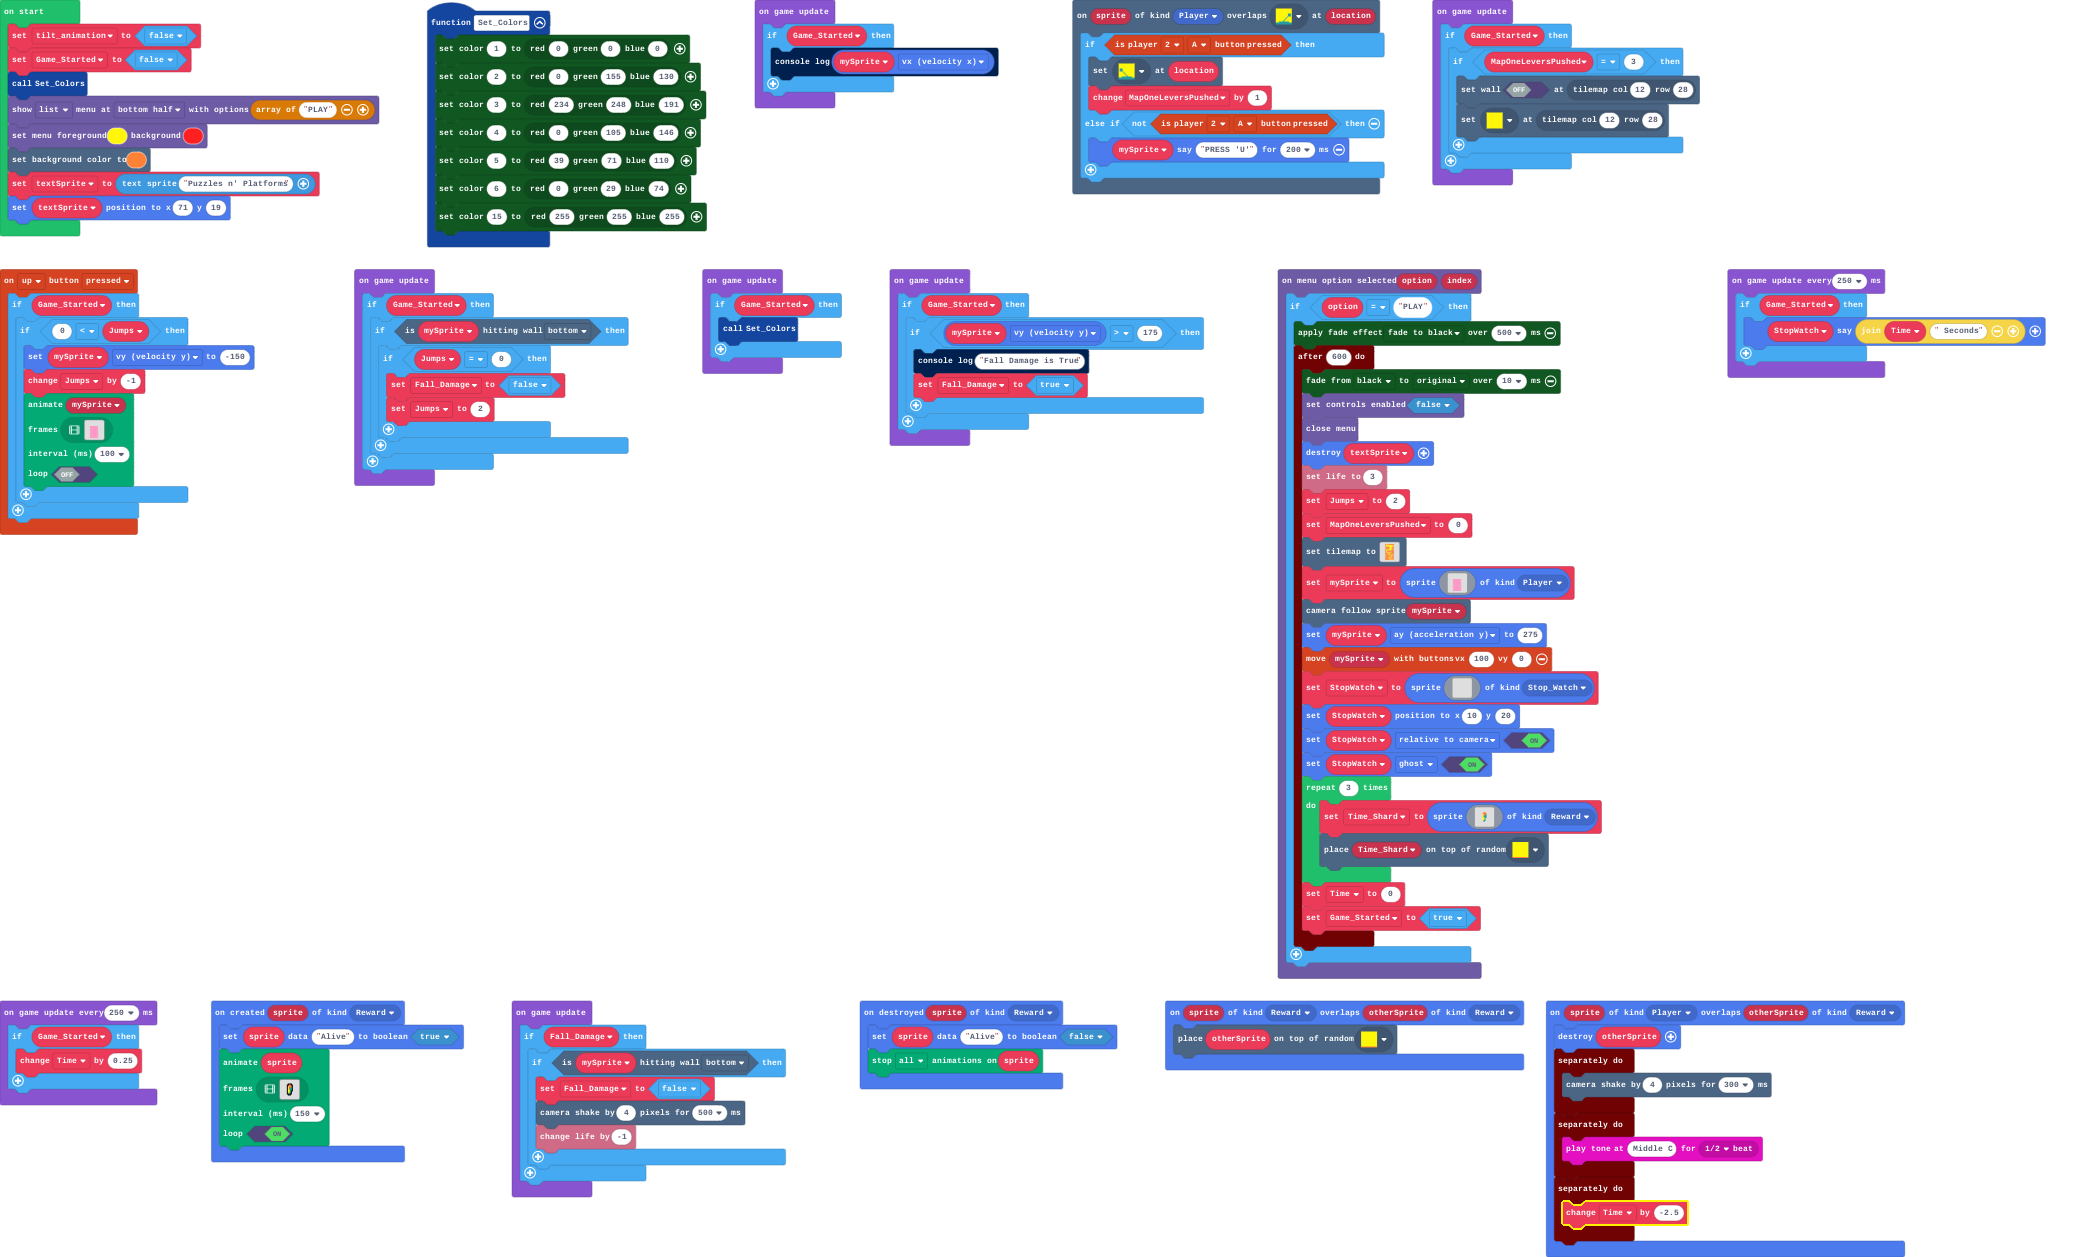
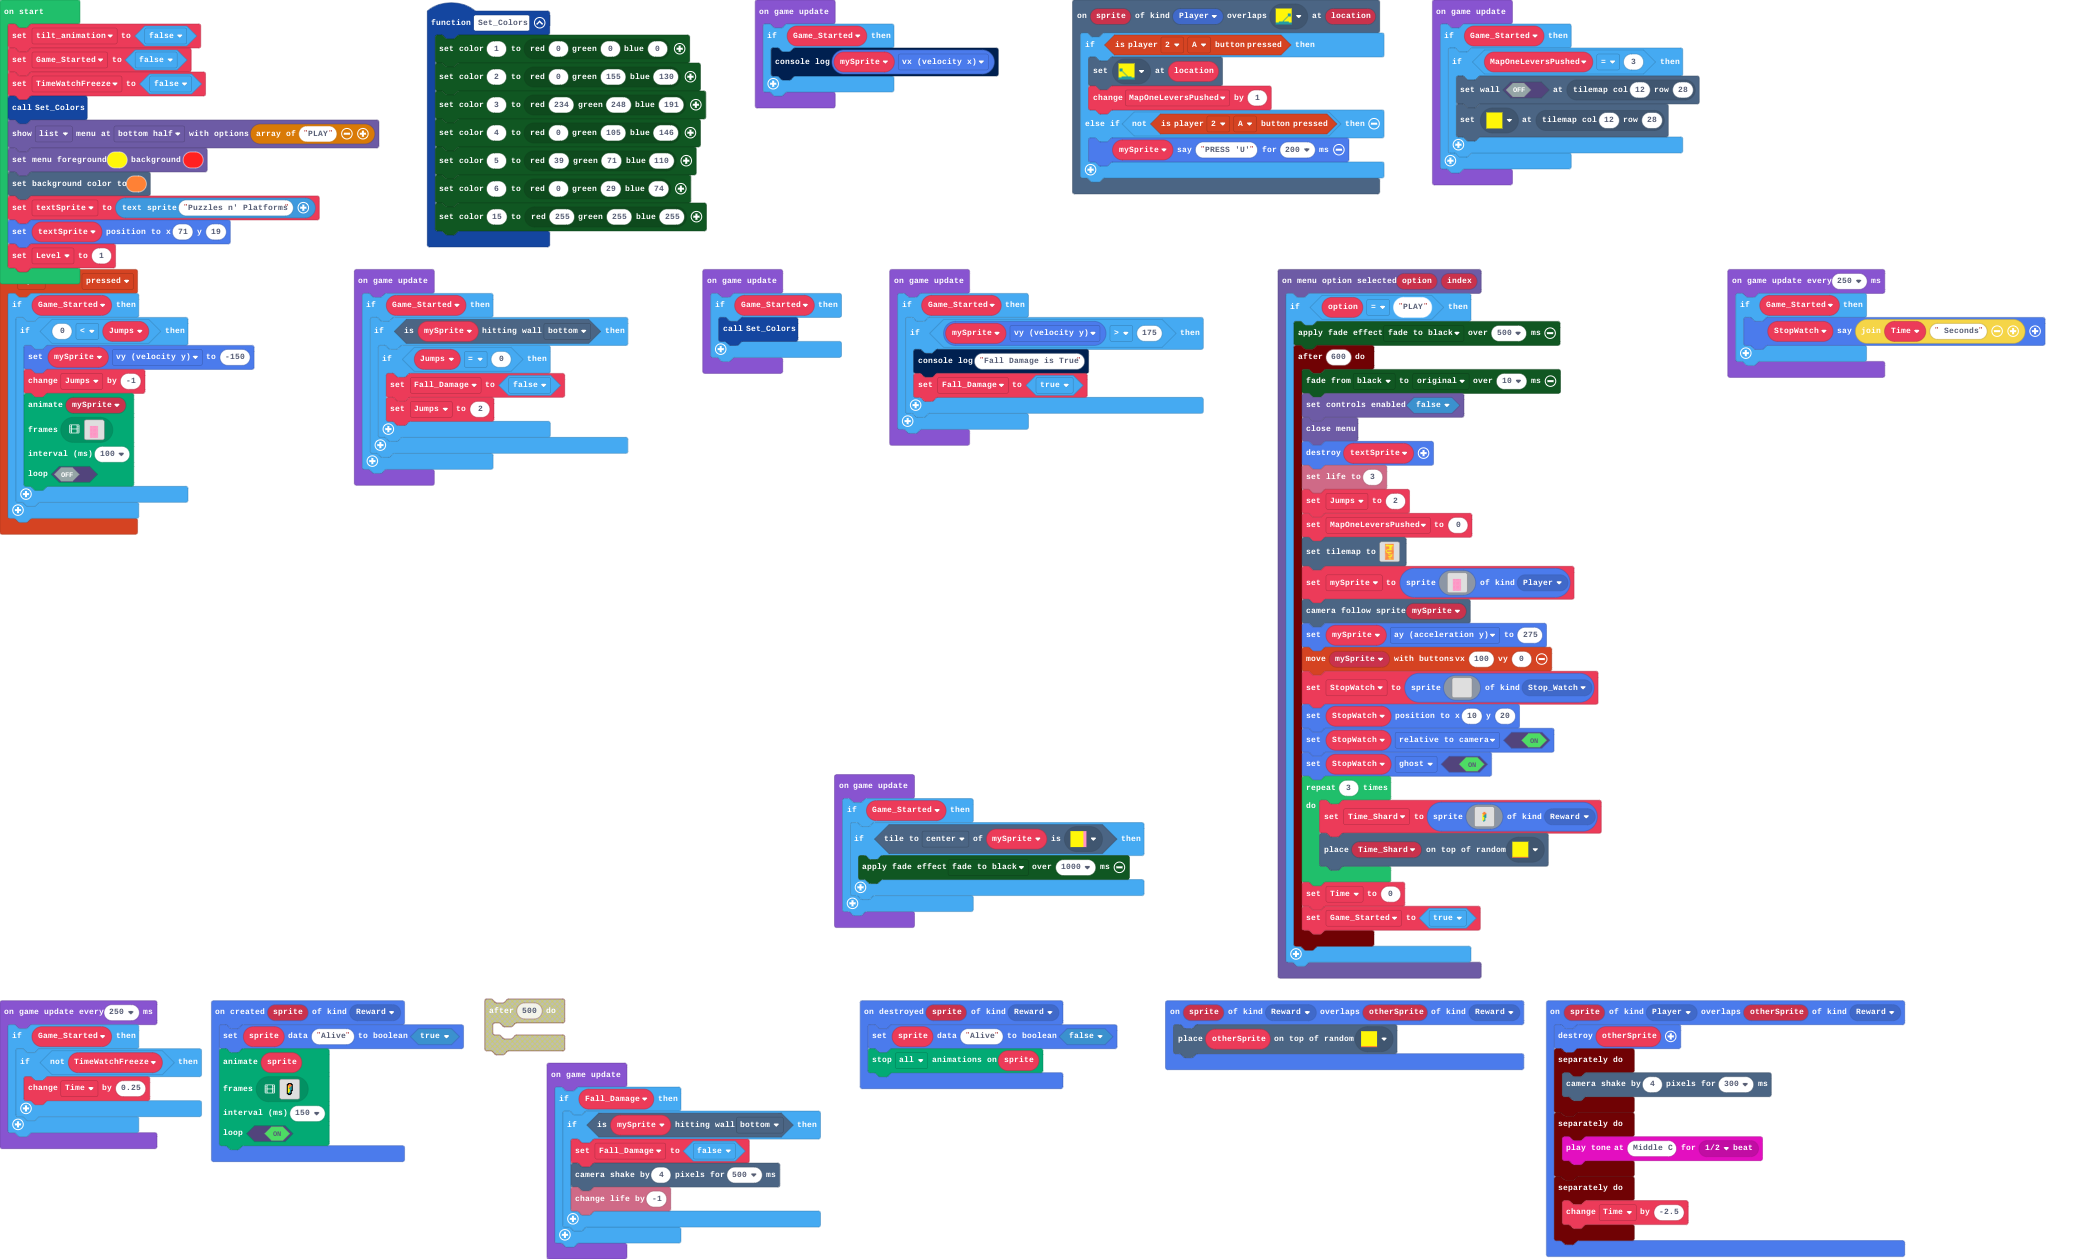
Update main.blocks, main.ts, tilemap.g.jres, tilemap.g.ts

diff --git a/tilemap.g.ts b/tilemap.g.ts
@@ -20,31 +20,31 @@ namespace myTiles {
     helpers._registerFactory("tilemap", function(name: string) {
         switch(helpers.stringTrim(name)) {
             case "Map1":
[2 lines of base64/hex data omitted]
 22..222222222222
 222.222222222222
 2..............2
 2..............2
 2..............2
 22222222.....222
-22222222.....222
 22222222....2222
 22222222.....222
 22222222.....222
-2222.......22222
+22222222...22222
+2222.........222
 2............222
 2..2222222222222
 2..2222222222222
 22.2222222222222
-2...222222222222
+2...........2222
 222.........2222
 222222..22222222
 222222.222222222
 222222...2222222
 2222222.......22
+2222222222...222
 22222222222..222
-222222222222.222
-22222222222..222
+222222.......222
 222222......2222
 22222222..222222
 222222222.222222

diff --git a/main.ts b/main.ts
@@ -328,16 +328,18 @@ let MapOneLeversPushed = 0
 let Time = 0
 let mySprite: Sprite = null
 let Jumps = 0
-let textSprite: TextSprite = null
+let textSprite: Sprite = null
 let Game_Started = false
 let tilt_animation = false
 Game_Started = false
+let TimeWatchFreeze = false
 Set_Colors()
 blockMenu.showMenu(["PLAY"], MenuStyle.List, MenuLocation.BottomHalf)
 blockMenu.setColors(5, 2)
 scene.setBackgroundColor(4)
 textSprite = textsprite.create("Puzzles n' Platforms")
 textSprite.setPosition(71, 19)
+let Level = 1
 game.onUpdate(function () {
     if (Game_Started) {
         console.log(mySprite.vx)
@@ -375,6 +377,13 @@ game.onUpdate(function () {
     }
 })
 game.onUpdate(function () {
+    if (Game_Started) {
+        if (mySprite.tileKindAt(TileDirection.Center, assets.tile`tile8`)) {
+            color.FadeToBlack.startScreenEffect(1000)
+        }
+    }
+})
+game.onUpdate(function () {
     if (Fall_Damage) {
         if (mySprite.isHittingTile(CollisionDirection.Bottom)) {
             Fall_Damage = false
@@ -390,6 +399,8 @@ game.onUpdateInterval(250, function () {
 })
 game.onUpdateInterval(250, function () {
     if (Game_Started) {
-        Time += 0.25
+        if (!(TimeWatchFreeze)) {
+            Time += 0.25
+        }
     }
 })
